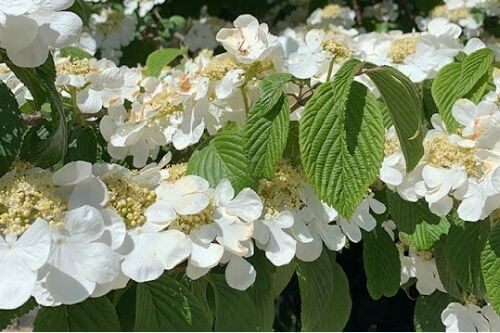
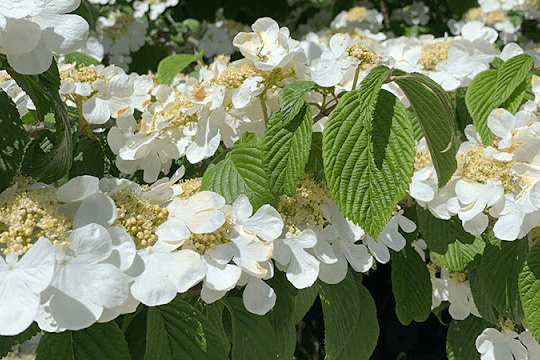
Updated photos and writing for the site

diff --git a/src/pages/BlogWriting.js b/src/pages/BlogWriting.js
@@ -19,7 +19,7 @@ const BlogWriting = () => {
             <Link
               to={{
                 pathname:
-                  "https://www.tomyunderstanding.net/2019/07/stalling-our-creativity.html",
+                  "https://www.tomyunderstanding.net/2021/05/loving-on-shy-people-around-us.html",
               }}
               target="_blank"
             >
@@ -56,10 +56,10 @@ const BlogWriting = () => {
           {/* Blog Photo 3 */}
 
           <Col xs={6} md={4}>
-            <Link
+          <Link
               to={{
                 pathname:
-                  "https://www.tomyunderstanding.net/2019/06/before-you-follow-that-trend.html",
+                  "https://www.tomyunderstanding.net/2019/06/before-you-follow-that-trend.html",
               }}
               target="_blank"
             >

diff --git a/src/pages/Portfolio.js b/src/pages/Portfolio.js
@@ -67,7 +67,7 @@ const Portfolio = () => {
               <a href="https://www.blendbayridge.com/">
                 Blend Coffee + Cowork
               </a>
-              . Owned and operated by native Bay Ridge, Brooklynite. Owned and
+              . Owned and operated by native Bay Ridge, Brooklynite. {""} Owned and
               operated by native Bay Ridge, Brooklynite.
             </p>
           </Col>

diff --git a/src/App.css b/src/App.css
@@ -217,7 +217,7 @@ a.nav-link {
 }
 
 .edits-proofs p {
-  color: black !important;
+  color: #454545 !important;
 }
 
 .edits-proofs ul {
